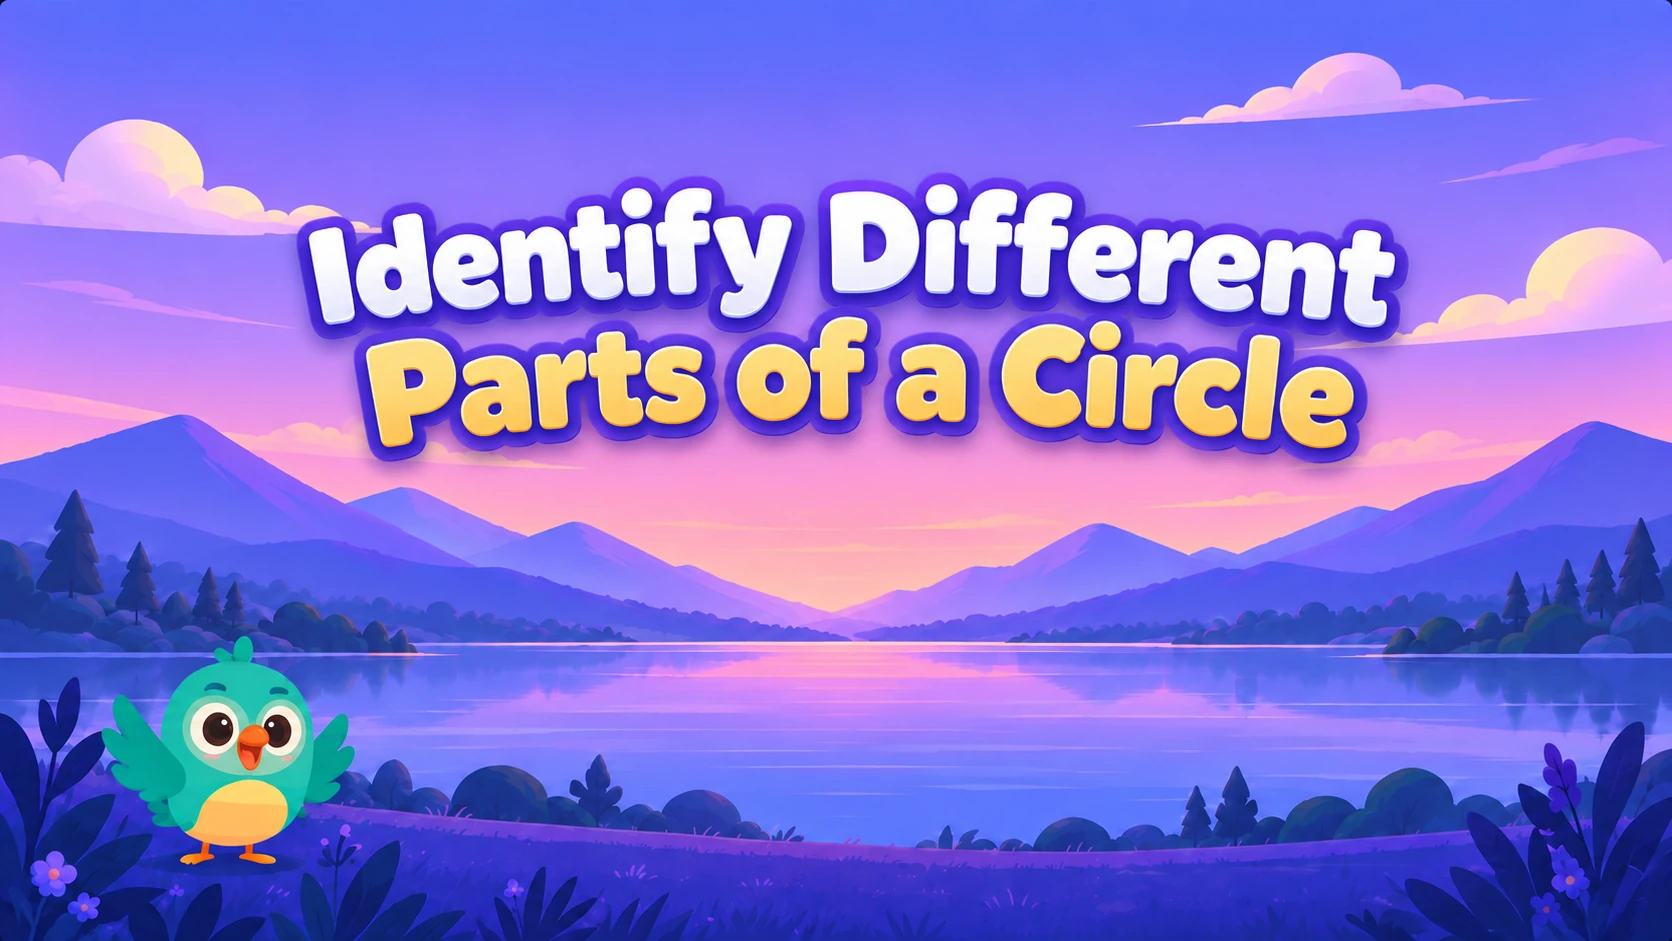
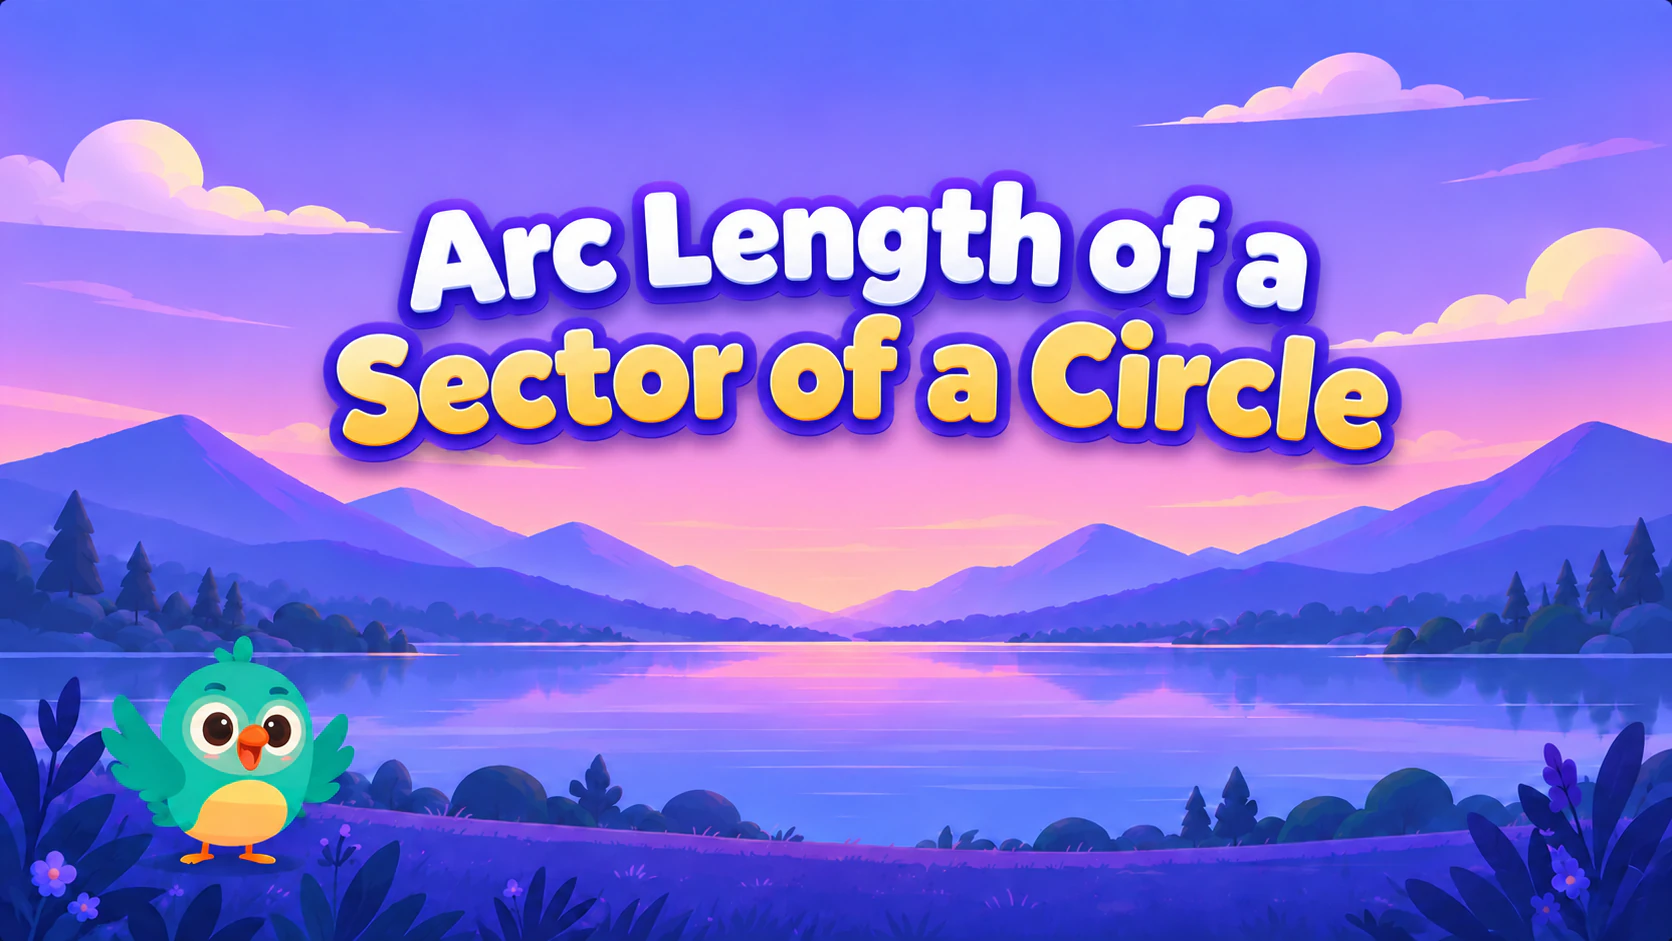
fix 25

Changed region(s): [[0.1555, 0.1849, 0.8397, 0.5239]]

diff --git a/circle-skill-1/js/arcs.js b/circle-skill-1/js/arcs.js
@@ -514,6 +514,7 @@
     var live = true;
     var nudge = null;               /* the hand's loop, while it is showing */
     var idle = 0;                   /* which wait for the hand is the current one */
+    var TOUCH_OPTS = { passive: false };
     var minSpan = c.minSpan != null ? c.minSpan : MIN_SPAN;
     var maxSpan = c.maxSpan != null ? c.maxSpan : MAX_SPAN;
 
@@ -584,28 +585,51 @@
       if (ev.pointerType === 'touch' && !press) return;
       if (press && ev.pointerId !== press.id) return;
       var q = polar(group, ev);
-      if (nearRim(q)) showGhost(allowed(q.deg)); else hideGhost();
+      if (nearRim(q)) showGhost(allowed(q.deg));
+      else if (!(press && press.touch && nearRelease(q))) hideGhost();
     }
+    /* Tablets (user, 2026-11-05: the first point went down, the second
+       never did). A press is never left standing: a new finger on the rim
+       takes over from one whose lift the browser never delivered, instead
+       of being turned away for good. The press is captured on the picture,
+       so its lift and its cancel always come back here; and its default is
+       stopped, so the tap is not also a mouse click that focuses the band
+       (which left the ghost lying on the rim) or a gesture the browser
+       claims for itself. */
     function onDown(ev) {
-      if (!live || press) return;
+      if (!live) return;
+      if (ev.button > 0) return;
       var q = polar(group, ev);
       if (!nearRim(q)) return;
-      press = { id: ev.pointerId };
+      if (ev.cancelable) ev.preventDefault();
+      press = { id: ev.pointerId, touch: ev.pointerType !== 'mouse' };
+      try { svg.setPointerCapture(ev.pointerId); } catch (e) { /* fine */ }
       showGhost(allowed(q.deg));
     }
+    /* A finger is wider than a cursor and drifts as it lifts: a press that
+       began on the rim still counts if it ends a little way off it. */
+    function nearRelease(q) { return Math.abs(q.dist - RR) <= BAND * 2; }
     function onUp(ev) {
       if (!live || !press || ev.pointerId !== press.id) return;
+      var touch = press.touch;
       press = null;
       var q = polar(group, ev);
-      if (!nearRim(q)) { hideGhost(); return; }
-      put(allowed(q.deg), ev);
-      if (ev.pointerType === 'touch') hideGhost();
+      if (nearRim(q)) put(allowed(q.deg), ev);
+      else if (touch && ghostOn && nearRelease(q)) put(ghostAt, ev);
+      else { hideGhost(); return; }
+      if (touch) hideGhost();
     }
     function onCancel(ev) {
       if (!press || ev.pointerId !== press.id) return;
       press = null;
       hideGhost();
     }
+    /* Safari takes a finger on the picture for its own gestures (double-tap
+       zoom, the press-and-hold magnifier) unless the touch itself is
+       stopped, whatever touch-action says -- and a gesture it claims ends
+       the press with a cancel, so the point is never put down. Only while
+       a point is wanted, and only on the picture. */
+    function onTouch(ev) { if (live && ev.cancelable) ev.preventDefault(); }
     function onKey(ev) {
       if (!live) return;
       var step = ev.shiftKey ? 15 : 5;
@@ -658,6 +682,7 @@
       live = false;
       restHand();
       svg.removeEventListener('pointerdown', onDown);
+      svg.removeEventListener('touchstart', onTouch, TOUCH_OPTS);
       document.removeEventListener('pointermove', onMove);
       document.removeEventListener('pointerup', onUp);
       document.removeEventListener('pointercancel', onCancel);
@@ -672,6 +697,7 @@
     }
 
     svg.addEventListener('pointerdown', onDown);
+    svg.addEventListener('touchstart', onTouch, TOUCH_OPTS);
     document.addEventListener('pointermove', onMove);
     document.addEventListener('pointerup', onUp);
     document.addEventListener('pointercancel', onCancel);

diff --git a/circle-skill-2/js/arcs.js b/circle-skill-2/js/arcs.js
@@ -398,6 +398,7 @@
     var live = true;
     var nudge = null;               /* the hand's loop, while it is showing */
     var idle = 0;                   /* which wait for the hand is the current one */
+    var TOUCH_OPTS = { passive: false };
     var minSpan = c.minSpan != null ? c.minSpan : MIN_SPAN;
     var maxSpan = c.maxSpan != null ? c.maxSpan : MAX_SPAN;
 
@@ -468,28 +469,51 @@
       if (ev.pointerType === 'touch' && !press) return;
       if (press && ev.pointerId !== press.id) return;
       var q = polar(group, ev);
-      if (nearRim(q)) showGhost(allowed(q.deg)); else hideGhost();
+      if (nearRim(q)) showGhost(allowed(q.deg));
+      else if (!(press && press.touch && nearRelease(q))) hideGhost();
     }
+    /* Tablets (user, 2026-11-05: the first point went down, the second
+       never did). A press is never left standing: a new finger on the rim
+       takes over from one whose lift the browser never delivered, instead
+       of being turned away for good. The press is captured on the picture,
+       so its lift and its cancel always come back here; and its default is
+       stopped, so the tap is not also a mouse click that focuses the band
+       (which left the ghost lying on the rim) or a gesture the browser
+       claims for itself. */
     function onDown(ev) {
-      if (!live || press) return;
+      if (!live) return;
+      if (ev.button > 0) return;
       var q = polar(group, ev);
       if (!nearRim(q)) return;
-      press = { id: ev.pointerId };
+      if (ev.cancelable) ev.preventDefault();
+      press = { id: ev.pointerId, touch: ev.pointerType !== 'mouse' };
+      try { svg.setPointerCapture(ev.pointerId); } catch (e) { /* fine */ }
       showGhost(allowed(q.deg));
     }
+    /* A finger is wider than a cursor and drifts as it lifts: a press that
+       began on the rim still counts if it ends a little way off it. */
+    function nearRelease(q) { return Math.abs(q.dist - RR) <= BAND * 2; }
     function onUp(ev) {
       if (!live || !press || ev.pointerId !== press.id) return;
+      var touch = press.touch;
       press = null;
       var q = polar(group, ev);
-      if (!nearRim(q)) { hideGhost(); return; }
-      put(allowed(q.deg), ev);
-      if (ev.pointerType === 'touch') hideGhost();
+      if (nearRim(q)) put(allowed(q.deg), ev);
+      else if (touch && ghostOn && nearRelease(q)) put(ghostAt, ev);
+      else { hideGhost(); return; }
+      if (touch) hideGhost();
     }
     function onCancel(ev) {
       if (!press || ev.pointerId !== press.id) return;
       press = null;
       hideGhost();
     }
+    /* Safari takes a finger on the picture for its own gestures (double-tap
+       zoom, the press-and-hold magnifier) unless the touch itself is
+       stopped, whatever touch-action says -- and a gesture it claims ends
+       the press with a cancel, so the point is never put down. Only while
+       a point is wanted, and only on the picture. */
+    function onTouch(ev) { if (live && ev.cancelable) ev.preventDefault(); }
     function onKey(ev) {
       if (!live) return;
       var step = ev.shiftKey ? 15 : 5;
@@ -542,6 +566,7 @@
       live = false;
       restHand();
       svg.removeEventListener('pointerdown', onDown);
+      svg.removeEventListener('touchstart', onTouch, TOUCH_OPTS);
       document.removeEventListener('pointermove', onMove);
       document.removeEventListener('pointerup', onUp);
       document.removeEventListener('pointercancel', onCancel);
@@ -556,6 +581,7 @@
     }
 
     svg.addEventListener('pointerdown', onDown);
+    svg.addEventListener('touchstart', onTouch, TOUCH_OPTS);
     document.addEventListener('pointermove', onMove);
     document.addEventListener('pointerup', onUp);
     document.addEventListener('pointercancel', onCancel);

diff --git a/circle-skill-4/js/arcs.js b/circle-skill-4/js/arcs.js
@@ -398,6 +398,7 @@
     var live = true;
     var nudge = null;               /* the hand's loop, while it is showing */
     var idle = 0;                   /* which wait for the hand is the current one */
+    var TOUCH_OPTS = { passive: false };
     var minSpan = c.minSpan != null ? c.minSpan : MIN_SPAN;
     var maxSpan = c.maxSpan != null ? c.maxSpan : MAX_SPAN;
 
@@ -468,28 +469,51 @@
       if (ev.pointerType === 'touch' && !press) return;
       if (press && ev.pointerId !== press.id) return;
       var q = polar(group, ev);
-      if (nearRim(q)) showGhost(allowed(q.deg)); else hideGhost();
+      if (nearRim(q)) showGhost(allowed(q.deg));
+      else if (!(press && press.touch && nearRelease(q))) hideGhost();
     }
+    /* Tablets (user, 2026-11-05: the first point went down, the second
+       never did). A press is never left standing: a new finger on the rim
+       takes over from one whose lift the browser never delivered, instead
+       of being turned away for good. The press is captured on the picture,
+       so its lift and its cancel always come back here; and its default is
+       stopped, so the tap is not also a mouse click that focuses the band
+       (which left the ghost lying on the rim) or a gesture the browser
+       claims for itself. */
     function onDown(ev) {
-      if (!live || press) return;
+      if (!live) return;
+      if (ev.button > 0) return;
       var q = polar(group, ev);
       if (!nearRim(q)) return;
-      press = { id: ev.pointerId };
+      if (ev.cancelable) ev.preventDefault();
+      press = { id: ev.pointerId, touch: ev.pointerType !== 'mouse' };
+      try { svg.setPointerCapture(ev.pointerId); } catch (e) { /* fine */ }
       showGhost(allowed(q.deg));
     }
+    /* A finger is wider than a cursor and drifts as it lifts: a press that
+       began on the rim still counts if it ends a little way off it. */
+    function nearRelease(q) { return Math.abs(q.dist - RR) <= BAND * 2; }
     function onUp(ev) {
       if (!live || !press || ev.pointerId !== press.id) return;
+      var touch = press.touch;
       press = null;
       var q = polar(group, ev);
-      if (!nearRim(q)) { hideGhost(); return; }
-      put(allowed(q.deg), ev);
-      if (ev.pointerType === 'touch') hideGhost();
+      if (nearRim(q)) put(allowed(q.deg), ev);
+      else if (touch && ghostOn && nearRelease(q)) put(ghostAt, ev);
+      else { hideGhost(); return; }
+      if (touch) hideGhost();
     }
     function onCancel(ev) {
       if (!press || ev.pointerId !== press.id) return;
       press = null;
       hideGhost();
     }
+    /* Safari takes a finger on the picture for its own gestures (double-tap
+       zoom, the press-and-hold magnifier) unless the touch itself is
+       stopped, whatever touch-action says -- and a gesture it claims ends
+       the press with a cancel, so the point is never put down. Only while
+       a point is wanted, and only on the picture. */
+    function onTouch(ev) { if (live && ev.cancelable) ev.preventDefault(); }
     function onKey(ev) {
       if (!live) return;
       var step = ev.shiftKey ? 15 : 5;
@@ -542,6 +566,7 @@
       live = false;
       restHand();
       svg.removeEventListener('pointerdown', onDown);
+      svg.removeEventListener('touchstart', onTouch, TOUCH_OPTS);
       document.removeEventListener('pointermove', onMove);
       document.removeEventListener('pointerup', onUp);
       document.removeEventListener('pointercancel', onCancel);
@@ -556,6 +581,7 @@
     }
 
     svg.addEventListener('pointerdown', onDown);
+    svg.addEventListener('touchstart', onTouch, TOUCH_OPTS);
     document.addEventListener('pointermove', onMove);
     document.addEventListener('pointerup', onUp);
     document.addEventListener('pointercancel', onCancel);

diff --git a/circle-skill-3/js/sector-area.js b/circle-skill-3/js/sector-area.js
@@ -387,6 +387,48 @@
     A.set(a0, a1, s);
     return A;
   }
+  /* The angle's name kept off both radii and off its own arc as the angle
+     turns: walked out along the middle of the sector, 4 px at a time, until
+     clear -- never past the rim. (Was ArcFormula.clearOfRadii, lost when
+     the skills were split into folders; the label sat on the arc at 245°
+     on a tablet -- user, 2026-11-05.) */
+  function crosses(b, p, q) {
+    /* does the segment p-q pass through the box b (Liang-Barsky)? */
+    var t0 = 0, t1 = 1, dx = q.x - p.x, dy = q.y - p.y;
+    var e = [[-dx, p.x - b.x], [dx, b.x + b.width - p.x], [-dy, p.y - b.y], [dy, b.y + b.height - p.y]];
+    for (var i = 0; i < 4; i++) {
+      var pp = e[i][0], qq = e[i][1];
+      if (pp === 0) { if (qq < 0) return false; continue; }
+      var t = qq / pp;
+      if (pp < 0) { if (t > t1) return false; if (t > t0) t0 = t; }
+      else { if (t < t0) return false; if (t < t1) t1 = t; }
+    }
+    return true;
+  }
+  function clearOfRadii(C, A, b0, b1) {
+    if (b1 - b0 >= 300) return;                 /* set below the ring: clear */
+    var ends = [pt(C, C.r, b0), pt(C, C.r, b1)];
+    var x0 = +A.lbl.getAttribute('x'), y0 = +A.lbl.getAttribute('y');
+    var dir = pt({ x: 0, y: 0 }, 1, (b0 + b1) / 2);
+    for (var k = 0; k < 30; k++) {
+      var b;
+      try { b = A.lbl.getBBox(); } catch (e) { return; }
+      if (!b.width) return;
+      var box = { x: b.x - 5, y: b.y - 3, width: b.width + 10, height: b.height + 6 };
+      var nearX = Math.max(box.x - C.x, 0, C.x - (box.x + box.width));
+      var nearY = Math.max(box.y - C.y, 0, C.y - (box.y + box.height));
+      var onArc = Math.hypot(nearX, nearY) < A.r + 4;
+      if (!onArc && !crosses(box, C, ends[0]) && !crosses(box, C, ends[1])) return;
+      var nx = b.x + dir.x * 4, ny = b.y + dir.y * 4, far = 0;
+      [[nx, ny], [nx + b.width, ny], [nx, ny + b.height], [nx + b.width, ny + b.height]]
+        .forEach(function (c) { far = Math.max(far, Math.hypot(c[0] - C.x, c[1] - C.y)); });
+      if (far > C.r - 6) return;
+      x0 += dir.x * 4; y0 += dir.y * 4;
+      A.lbl.setAttribute('x', r2(x0));
+      A.lbl.setAttribute('y', r2(y0));
+    }
+  }
+
   function angleIn(A) {
     /* measured again now the name is laid out, so the fit is exact */
     if (A.set && A.b0 != null) A.set(A.b0, A.b1);
@@ -2100,11 +2142,11 @@
     await wait(SHORT);
     A.lbl.classList.remove('lbl--big');
     A.set(a0, a1, 'θ = ' + (a1 - a0) + '°');
+    clearOfRadii(C, A, a0, a1);
     await anim(popIn(A.lbl, { from: 0.7 }));
     await say(keyed('s3CentralHere', { deg: a1 - a0 }));
     await wait(SHORT);
     var hand = { a: a0 };
-    var clear = global.ArcFormula && global.ArcFormula.clearOfRadii;
     function place() {
       var cur = hand.a;
       var deg = Math.round(a1 - cur);
@@ -2116,7 +2158,7 @@
       ends[0].setAttribute('cx', r2(p.x));
       ends[0].setAttribute('cy', r2(p.y));
       A.set(cur, a1, 'θ = ' + deg + '°');
-      if (clear) clear(C, A, cur, a1);
+      clearOfRadii(C, A, cur, a1);
     }
     place();
     /* The radius walked round from where it stands to `to`, a tick of

diff --git a/circle-skill-1/css/arcs.css b/circle-skill-1/css/arcs.css
@@ -51,7 +51,15 @@
    the rim, points slid along it -- and a browser that takes a finger on it
    for a scroll cancels the pointer mid-gesture. The page never scrolls, so
    nothing is lost. */
-.figure { touch-action: none; }
+.figure {
+  touch-action: none;
+  /* a finger held on the rim is a press, not a selection or a callout
+     (Safari on a tablet) */
+  -webkit-user-select: none;
+  user-select: none;
+  -webkit-touch-callout: none;
+  -webkit-tap-highlight-color: transparent;
+}
 
 /* ---- The band -----------------------------------------------------------
    A wide, unpainted stroke laid over the rim. It is not a target the

diff --git a/circle-skill-2/css/arcs.css b/circle-skill-2/css/arcs.css
@@ -51,7 +51,15 @@
    the rim, points slid along it -- and a browser that takes a finger on it
    for a scroll cancels the pointer mid-gesture. The page never scrolls, so
    nothing is lost. */
-.figure { touch-action: none; }
+.figure {
+  touch-action: none;
+  /* a finger held on the rim is a press, not a selection or a callout
+     (Safari on a tablet) */
+  -webkit-user-select: none;
+  user-select: none;
+  -webkit-touch-callout: none;
+  -webkit-tap-highlight-color: transparent;
+}
 
 /* ---- The band -----------------------------------------------------------
    A wide, unpainted stroke laid over the rim. It is not a target the

diff --git a/circle-skill-4/css/arcs.css b/circle-skill-4/css/arcs.css
@@ -51,7 +51,15 @@
    the rim, points slid along it -- and a browser that takes a finger on it
    for a scroll cancels the pointer mid-gesture. The page never scrolls, so
    nothing is lost. */
-.figure { touch-action: none; }
+.figure {
+  touch-action: none;
+  /* a finger held on the rim is a press, not a selection or a callout
+     (Safari on a tablet) */
+  -webkit-user-select: none;
+  user-select: none;
+  -webkit-touch-callout: none;
+  -webkit-tap-highlight-color: transparent;
+}
 
 /* ---- The band -----------------------------------------------------------
    A wide, unpainted stroke laid over the rim. It is not a target the
